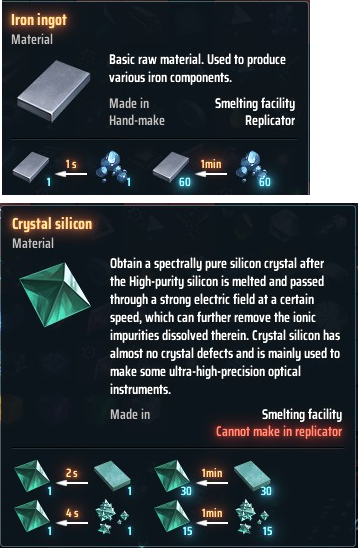
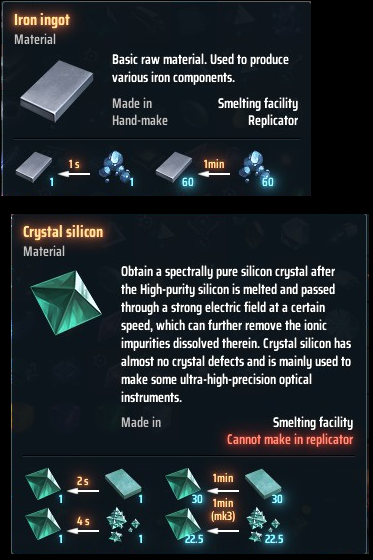
modify sample

diff --git a/README.md b/README.md
@@ -5,3 +5,14 @@ This mod adds amount of recipe per 1min in ItemTip GUI.
 ## Sample
 
 ![sample](https://github.com/wokdok/AddAmountOfRecipePer1min/blob/master/sample.png?raw=true "sample")
+
+## ChangeLog
+
+### 1.1.0
+* If the recipe uses Assembler, calculate with the most powerful Assembler.（mk3＞mk2>mk1)
+
+### 1.0.1
+* fix sample.png location
+
+### 1.0.0
+* initial release
